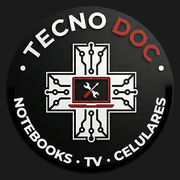
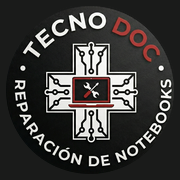
Solo reparación de notebooks: TV y celulares suspendidos hasta 2027
- Vuelve el sello "REPARACIÓN DE NOTEBOOKS" (logo, favicon, ícono, og-image).
- Tarjetas de Celulares y Televisores comentadas en index.html (se conservan).
- Título, descripciones, texto del hero y pie solo con notebooks.

Changed region(s): [[0.0833, 0.4167, 0.9722, 0.9444]]

diff --git a/index.html b/index.html
@@ -3,8 +3,8 @@
 <head>
   <meta charset="utf-8">
   <meta name="viewport" content="width=device-width, initial-scale=1">
-  <title>TecnoDoc · Laboratorio de electrónica en Posadas, Misiones · Reparación de notebooks, celulares y TV</title>
-  <meta name="description" content="Laboratorio de electrónica en Itaembé Guazú, Posadas, Misiones. Reparación de notebooks, celulares y TV, y rescate de datos. Diagnóstico gratuito y documentado, reparación a nivel componente, presupuesto antes de intervenir y 3 meses de garantía.">
+  <title>TecnoDoc · Laboratorio de electrónica en Posadas, Misiones · Reparación de notebooks</title>
+  <meta name="description" content="Laboratorio de electrónica en Itaembé Guazú, Posadas, Misiones. Reparación y mantenimiento de notebooks, y rescate de datos. Diagnóstico gratuito y documentado, reparación a nivel componente, presupuesto antes de intervenir y 3 meses de garantía.">
   <meta name="theme-color" content="#1A1B1A">
   <link rel="canonical" href="https://www.tecnodoc.com.ar/">
   <link rel="icon" href="assets/img/favicon-48.png" type="image/png" sizes="48x48">
@@ -14,7 +14,7 @@
   <meta property="og:locale" content="es_AR">
   <meta property="og:site_name" content="TecnoDoc">
   <meta property="og:title" content="TecnoDoc · Laboratorio de electrónica en Posadas, Misiones">
-  <meta property="og:description" content="Reparación de notebooks, celulares y TV, y rescate de datos. Diagnóstico gratuito. Consultanos por WhatsApp: 3765 11-2222.">
+  <meta property="og:description" content="Reparación de notebooks y rescate de datos. Diagnóstico gratuito. Consultanos por WhatsApp: 3765 11-2222.">
   <meta property="og:url" content="https://www.tecnodoc.com.ar/">
   <meta property="og:image" content="https://www.tecnodoc.com.ar/assets/img/og-image.jpg">
   <meta property="og:image:type" content="image/jpeg">
@@ -32,7 +32,7 @@
     "@context": "https://schema.org",
     "@type": "LocalBusiness",
     "name": "TecnoDoc",
-    "description": "Laboratorio de electrónica: reparación de notebooks, celulares y TV, y rescate de datos. Diagnóstico gratuito.",
+    "description": "Laboratorio de electrónica: reparación de notebooks y rescate de datos. Diagnóstico gratuito.",
     "telephone": "+54 9 3765 11-2222",
     "image": "https://www.tecnodoc.com.ar/assets/img/og-image.jpg",
     "url": "https://www.tecnodoc.com.ar/",
@@ -80,7 +80,7 @@
       <div class="hero__texto">
         <p class="etiqueta">Laboratorio de Electrónica · Posadas, Misiones</p>
         <h1>¡Recuperamos tu <span>equipo!</span></h1>
-        <p class="hero__bajada">Reparación y mantenimiento preventivo de <strong>notebooks, celulares y TV</strong>, y rescate de datos. <strong>Diagnóstico gratuito</strong>, ordenado y documentado paso a paso, <strong>presupuesto antes de intervenir</strong> y <strong>3 meses de garantía</strong> en todos nuestros trabajos.</p>
+        <p class="hero__bajada">Reparación y mantenimiento preventivo de <strong>notebooks</strong>, y rescate de datos. <strong>Diagnóstico gratuito</strong>, ordenado y documentado paso a paso, <strong>presupuesto antes de intervenir</strong> y <strong>3 meses de garantía</strong> en todos nuestros trabajos.</p>
         <div class="hero__acciones">
           <a class="btn btn--rojo" href="https://wa.me/5493765112222?text=Hola%20TecnoDoc%2C%20quiero%20consultar%20por%20un%20equipo." target="_blank" rel="noopener">
             <svg class="ico" viewBox="0 0 24 24" aria-hidden="true"><path d="M12 2a10 10 0 0 0-8.6 15.1L2 22l5-1.3A10 10 0 1 0 12 2Zm0 18.2a8.2 8.2 0 0 1-4.2-1.2l-.3-.2-3 .8.8-2.9-.2-.3A8.2 8.2 0 1 1 12 20.2Zm4.5-6.1c-.2-.1-1.5-.7-1.7-.8-.2-.1-.4-.1-.6.1l-.8 1c-.1.2-.3.2-.5.1a6.7 6.7 0 0 1-3.3-2.9c-.2-.4.2-.4.7-1.3.1-.2 0-.3 0-.4l-.8-1.9c-.2-.5-.4-.4-.6-.4h-.5a1 1 0 0 0-.7.3 3 3 0 0 0-.9 2.2 5.2 5.2 0 0 0 1.1 2.8 11.9 11.9 0 0 0 4.6 4c1.7.7 2.4.8 3.2.7a2.8 2.8 0 0 0 1.8-1.3 2.3 2.3 0 0 0 .2-1.3c-.1-.1-.3-.2-.5-.3Z"/></svg>
@@ -97,7 +97,7 @@
         <picture>
           <source srcset="assets/img/logo-400.webp 400w, assets/img/logo-800.webp 800w" sizes="(max-width: 980px) 260px, 440px" type="image/webp">
           <img src="assets/img/logo-400.png" width="400" height="400" fetchpriority="high"
-               alt="Logo de TecnoDoc: sello circular con una cruz de pistas de circuito y una notebook con herramientas en el centro; abajo dice Notebooks, TV, Celulares">
+               alt="Logo de TecnoDoc: sello circular con una cruz de pistas de circuito y una notebook con herramientas en el centro; abajo dice Reparación de notebooks">
         </picture>
       </div>
     </div>
@@ -122,6 +122,8 @@
             <li>BIOS/EC: lectura y reprogramación del chip de firmware.</li>
           </ul>
         </article>
+        <!-- CELULARES Y TELEVISORES: servicios SUSPENDIDOS desde el 2026-11-05 hasta 2027 (solo reparamos notebooks).
+             Para volver a mostrarlos, quitar este comentario.
         <article class="tarjeta">
           <div class="tarjeta__cab">
             <div class="tarjeta__ico"><svg viewBox="0 0 48 48" aria-hidden="true" fill="none" stroke="currentColor" stroke-width="3" stroke-linejoin="round"><rect x="14" y="4" width="20" height="40" rx="4"/><path d="M21 38h6" stroke-linecap="round"/></svg></div>
@@ -145,6 +147,7 @@
             <li>Firmware y sistema del Smart TV.</li>
           </ul>
         </article>
+        FIN CELULARES Y TELEVISORES -->
         <article class="tarjeta">
           <div class="tarjeta__cab">
             <div class="tarjeta__ico"><svg viewBox="0 0 48 48" aria-hidden="true" fill="none" stroke="currentColor" stroke-width="3" stroke-linejoin="round" stroke-linecap="round"><ellipse cx="24" cy="11" rx="15" ry="6"/><path d="M9 11v26c0 3.3 6.7 6 15 6s15-2.7 15-6V11"/><path d="M9 24c0 3.3 6.7 6 15 6s15-2.7 15-6"/></svg></div>
@@ -177,7 +180,7 @@
     <div class="wrap">
       <p class="etiqueta etiqueta--oscura">Equipos usados</p>
       <h2>Usados revisados en el laboratorio</h2>
-      <p class="intro">Notebooks, celulares y televisores usados que pasaron por nuestro banco de pruebas. Cada publicación detalla sus características, su condición y el precio final.</p>
+      <p class="intro">Notebooks usadas que pasaron por nuestro banco de pruebas. Cada publicación detalla sus características, su condición y el precio final.</p>
       <div class="filtros" id="usados-filtros" role="group" aria-label="Filtrar por tipo de equipo" hidden></div>
       <div class="usados" id="usados-grilla" aria-live="polite">
         <noscript><p class="usados__vacio">Para ver los equipos disponibles, activá JavaScript o escribinos por WhatsApp al 3765 11-2222.</p></noscript>
@@ -296,7 +299,7 @@
       <source srcset="assets/img/logo-160.webp" type="image/webp">
       <img src="assets/img/logo-160.png" alt="TecnoDoc" width="64" height="64" loading="lazy">
     </picture>
-    <p>© 2026 TecnoDoc · Laboratorio de Electrónica · Reparación de Notebooks, Celulares y TV · Posadas, Misiones</p>
+    <p>© 2026 TecnoDoc · Laboratorio de Electrónica · Reparación de Notebooks · Posadas, Misiones</p>
   </div>
 </footer>
 

diff --git a/README.md b/README.md
@@ -1,10 +1,10 @@
 # TecnoDoc · sitio web
 
-Sitio estático de **TecnoDoc — Laboratorio de Electrónica** (reparación de notebooks, celulares y TV, y rescate de datos, en Itaembé Guazú, Posadas, Misiones). Armado tomando como modelo el sitio de AgroDoc (`agrodoc-site`).
+Sitio estático de **TecnoDoc — Laboratorio de Electrónica** (reparación de notebooks y rescate de datos, en Itaembé Guazú, Posadas, Misiones). Armado tomando como modelo el sitio de AgroDoc (`agrodoc-site`).
 
-- `index.html` — página única: servicios (notebooks, celulares, TV y rescate de datos), diagnóstico gratuito, mantenimiento preventivo, cómo trabajamos, consejos y contacto (WhatsApp 3765 11-2222). El correo no se publica por decisión del dueño.
+- `index.html` — página única: servicios (notebooks y rescate de datos; las tarjetas de celulares y televisores quedaron **comentadas** en el HTML porque esos servicios están suspendidos desde el 2026-11-05 hasta 2027), diagnóstico gratuito, mantenimiento preventivo, cómo trabajamos, consejos y contacto (WhatsApp 3765 11-2222). El correo no se publica por decisión del dueño.
 - `assets/css/styles.css` — estilos con la paleta del logo (negro carbón `#1A1B1A`, rojo `#C0302B`, blanco/gris `#C9CBCA`) y tipografía Montserrat (Google Fonts).
-- `assets/img/` — logo con el texto inferior "NOTEBOOKS · TV · CELULARES" (`logo-tecnodoc.png`, versión general hecha el 2026-11-02 a partir del original de `IA TecnoDoc/assets/`, que decía "Reparación de notebooks" y no se modificó; copia en `09-MKT-Marketing-y-marca/Identidad-de-marca/logo-tecnodoc-general.png`), versiones livianas para la web (`logo-160`, `logo-400`, `logo-800` en PNG/WebP), favicon, ícono para iPhone e imagen para compartir (`og-image.jpg`, 1200×630).
+- `assets/img/` — logo con el texto inferior "REPARACIÓN DE NOTEBOOKS" (`logo-tecnodoc.png`; desde el 2026-11-05 vuelve a ser el vigente porque se suspendieron TV y celulares. La versión "NOTEBOOKS · TV · CELULARES" quedó guardada en `IA TecnoDoc/assets/logo-tecnodoc-notebooks-tv-celulares.png` y en `09-MKT-Marketing-y-marca/Identidad-de-marca/logo-tecnodoc-notebooks-tv-celulares.png` para cuando se retomen), versiones livianas para la web (`logo-160`, `logo-400`, `logo-800` en PNG/WebP), favicon, ícono para iPhone e imagen para compartir (`og-image.jpg`, 1200×630).
 - **Garantía de 3 meses** (2026-11-04, política general del laboratorio): mencionada en el hero, en el paso 8 de "Cómo trabajamos" y en un recuadro (`.garantia`) debajo de los pasos, con el mismo texto que `IA TecnoDoc/config.json → condiciones_comerciales.garantia`. Si cambia allá, cambiarla acá también.
 - **Sección "Compromiso social"** (`#compromiso-social`, 2026-11-04; **oculta**: atributo `hidden` en la sección y link del menú comentado en `index.html`, se retoma más adelante): notebooks restauradas que se regalan a personas con pocos recursos, en 3 pasos (recuperamos, restauramos, regalamos), con dos botones de WhatsApp con mensaje prellenado: donar una notebook y contar el caso de alguien que la necesita. Sin cifras ni criterios de entrega hasta que el dueño los defina.
 - **Sección "Usados"** (venta de equipos usados; **oculta desde el 2026-11-04**: atributo `hidden` en la sección, link del menú y scripts comentados en `index.html` — revertir esas 3 cosas para mostrarla): el contenido sale de `assets/data/equipos-usados.js` — es el único archivo que hay que editar para agregar, modificar, reservar, marcar vendido u ocultar un equipo (las instrucciones están al principio del archivo). Las fotos van en `assets/img/usados/`. `assets/js/usados.js` arma las tarjetas, los filtros por categoría y el botón de WhatsApp con mensaje prellenado; no hace falta tocarlo. Se puede editar directo desde la web de GitHub (lápiz ✏ sobre el archivo → "Commit changes") y se publica solo en un par de minutos. Los 3 equipos actuales son de **ejemplo** (cartel amarillo "EJEMPLO"): reemplazarlos por equipos reales antes de publicar.
@@ -31,7 +31,7 @@ Buscar `[PENDIENTE` en `index.html` para encontrar los marcadores visibles (se m
 7. `[PENDIENTE: foto real del laboratorio]` — AgroDoc usa una foto del frente del taller; acá el hero muestra el logo. Las imágenes de `Estrategia y Branding` son generadas por IA (tienen la marca de agua de Gemini), por eso no se usaron como foto.
 8. `[PENDIENTE: redes sociales]` — Instagram/Facebook/LinkedIn, si existen, para sumar al pie.
 9. `[PENDIENTE: confirmar WhatsApp]` — ver arriba.
-10. ~~Logo~~ — resuelto: el sitio usa la versión "NOTEBOOKS · TV · CELULARES". Los documentos de `IA TecnoDoc` siguen con el logo original; cambiarlo allá si se quiere unificar.
+10. ~~Logo~~ — resuelto: sitio y documentos de `IA TecnoDoc` usan el sello "REPARACIÓN DE NOTEBOOKS" (2026-11-05). En 2027, si vuelven TV y celulares: restaurar el logo general, descomentar las tarjetas en `index.html` y revisar títulos, descripciones y pie.
 11. `[PENDIENTE: DNS del dominio]` — `www.tecnodoc.com.ar` tiene que apuntar a GitHub Pages (ver pasos).
 12. `[PENDIENTE: equipos usados reales]` — reemplazar los ejemplos de `assets/data/equipos-usados.js` y definir las condiciones de venta (garantía de los usados, medios de pago, si se puede probar el equipo) para sumarlas a la nota de la sección.
 
